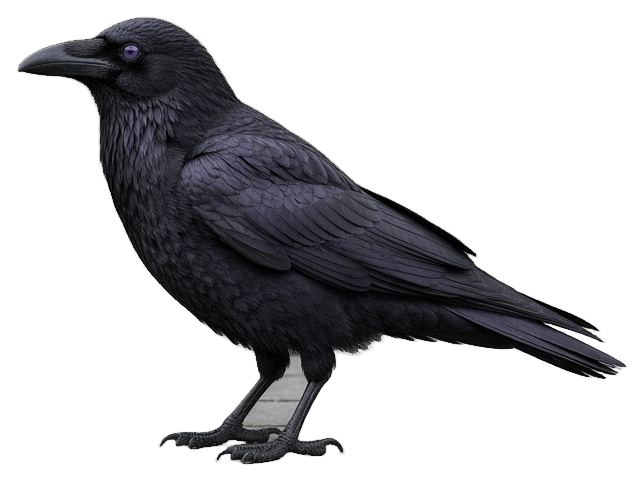
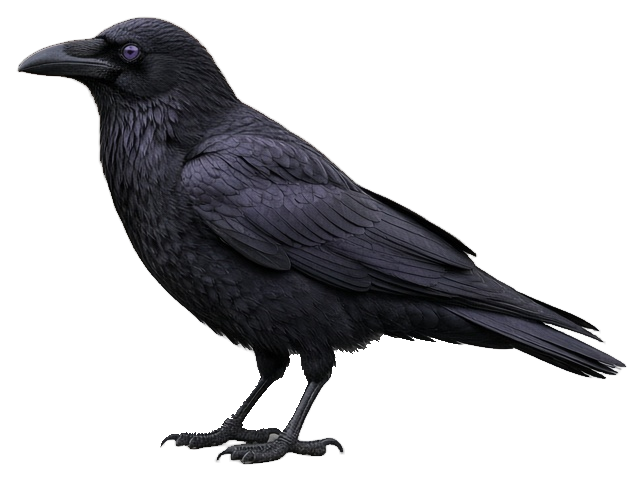
Art: all 77 new creatures rigged, animated and checked (MeshTool 03915ff); clocktower-raven's cutout cleared of stone
- MeshTool 03915ff: bone heat weighted again at about a metre when it fails on a small mesh (the mice, the vole);
  a stale-reference crash in the leg cleanup fixed (mangrove-kingfisher). The 18 made before rig byte for byte the same.
- clocktower-raven/cutout.png: the grey stone between the legs is cleared (it meshed as a plank and hid the legs).
- HANDOFF-WSL.md: where the rigging stands, ruby-darter on seed 2, and the review page for the clips.

Claude-Session: https://claude.ai/code/session_01Lwce7rUrjL8aGAGdBYtMqh

Changed region(s): [[0.3416, 0.7173, 0.4969, 0.9044], [0.528, 0.7173, 0.5901, 0.7484], [0.5901, 0.6861, 0.6211, 0.7173]]

diff --git a/species/art/HANDOFF-WSL.md b/species/art/HANDOFF-WSL.md
@@ -130,15 +130,19 @@ snails). Each shape has MeshTool's `steps/blender_rig_<shape>.py` and `steps/ble
   A moth meshed standing on its edge is fine: the flyer rig lays every insect flat by its thin side. Judge the
   shape, not which way it stands.
   To find any id not yet meshed: `python -c "import json,os;d=json.load(open('species/art/meshtool.json'));print(' '.join(k for k in d['creatures'] if not os.path.exists('species/art/%s/work/hunyuan-template/clean.blend'%k)))"`.
-- **Next: rig.** For each creature below not yet rigged: `make.py <id> --from rig --to check --keep-strands` (CPU only).
-- Rigged and checked so far (check passes, nothing filed): fish arctic-char, aurora-eel, mud-ray, reed-seahorse;
-  bird blue-skylark, chimney-bat; flyer emerald-swallowtail, pond-skimmer; crawler darkling-beetle, bramble-spider,
-  mud-crab, field-bee; soft moon-jelly, garden-snail; four-legged banded-gecko, pond-frog. The rest: rig them
-  (`--from rig --to check --keep-strands`), make a contact sheet of each clip, show the owner, then file.
-- The four-legged rig and clips were finished by an agent that died before reporting. Their edits are committed as
-  ca09e52 and checked: street-terrier rigged again comes out byte for byte the same as the published one (the 18 are
-  pinned in `MADE_BEFORE`), banded-gecko rigs as a sprawled lizard, pond-frog as a sitting frog (`SQUAT`). The other
-  19 four-legged animals have not been run; no clip has been looked at.
+- **Rigged, animated, packed and checked: all 77** (2026-11-17, with MeshTool 03915ff); check passes on every one,
+  nothing filed. Two needed a new mesh first:
+  - clocktower-raven: the cutout kept a patch of grey stone between the legs, which meshed as a long plank and left
+    the bird rig no legs. The stone is cleared from `cutout.png` (only the large light-grey patch) and it meshed again.
+  - ruby-darter on **seed 2**: on seed 1234 the flyer rig could not tell the left forewing from the body.
+  Two rig fixes went into MeshTool: bone heat failed on the mice and the vole (a few cm long), so the four-legged rig
+  now weights again at about a metre when it leaves more than 2% of the vertices without a bone; and a stale-reference
+  crash in the leg cleanup (mangrove-kingfisher) is fixed. The 18 made before still rig byte for byte the same: all 36
+  of their packed files match the sha256 in their `made.json`.
+- **Next: the owner looks at every clip**, then file the ones approved (`make.py <id> --file`), run `species/build.py`,
+  look in the gallery and push. Contact sheets of every clip (picture, rigged mesh, two moments of each clip) are on
+  the private review page https://claude.ai/artifact/VRxPmS8beVdYxQP5hkteqP. Things seen there to look at: birds' wings
+  smear as they open (blue-skylark); boreal-emerald's wings render nearly black.
 
 **build.py.** `standard_faults` checks the standard above on both copies. The owner added the old drawn models back
 as `species/models/<id>.low.glb` for a Hi-res on/off option (the apps' "Hi-res creatures", the gallery's Hi-res
